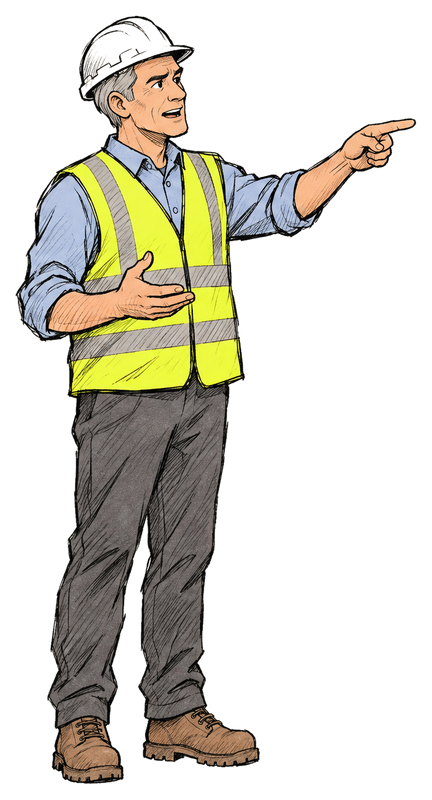
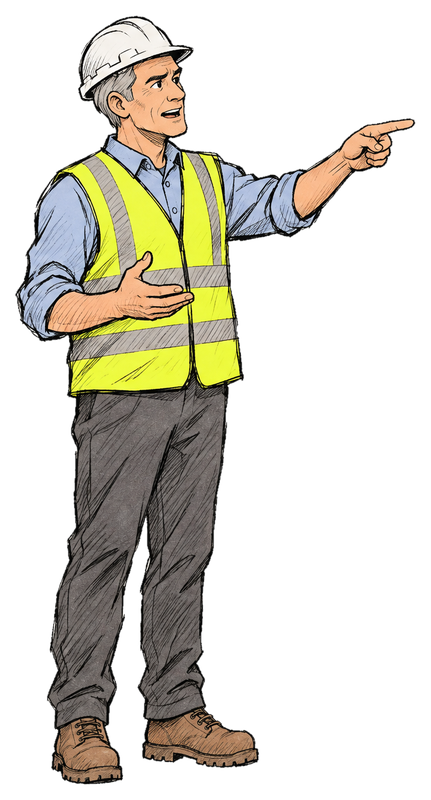
BaumBB: bessere Freistellung, Bodenschatten, entzerrte Szenen
Claude-Session: https://claude.ai/code/session_01PAW8DoUwZkXKPhHjstQ3Fo

diff --git a/projects/bischof-baumbb/src/video.js b/projects/bischof-baumbb/src/video.js
@@ -197,7 +197,7 @@ function pitDashed(g, k) { if (k <= 0) return; line(g, [[745, GY + 2], [760, GY 
 function materials(g, k) {
   if (k <= 0) return;
   const kk = ease.outBack(clamp(k), 1.8);
-  const mg = el('g', { transform: `translate(980,${GY}) scale(${kk}) translate(-980,${-GY})` }, g);
+  const mg = el('g', { transform: `translate(1040,${GY}) scale(${kk * 0.8}) translate(-960,${-GY})` }, g);
   el('rect', { x: 900, y: GY - 70, width: 120, height: 66, fill: '#D8B98A', stroke: C.ink, 'stroke-width': 2.6, filter: 'url(#ink)' }, mg);
   line(mg, [[904, GY - 66], [1016, GY - 8]], { w: 2, color: C.ink, opacity: 0.6 }); line(mg, [[1016, GY - 66], [904, GY - 8]], { w: 2, color: C.ink, opacity: 0.6 });
   [[930, GY - 92], [965, GY - 92], [1000, GY - 92], [948, GY - 122], [983, GY - 122]].forEach(([x, y], i) => { el('circle', { cx: x, cy: y, r: 17, fill: '#B9C2C7', stroke: C.ink, 'stroke-width': 2.6, filter: 'url(#ink)' }, mg); el('circle', { cx: x, cy: y, r: 8, fill: 'none', stroke: C.ink, 'stroke-width': 1.6 }, mg); });
@@ -306,7 +306,7 @@ function planMarks(g, t, { tK, tS, tC, tF }) {
     line(g, pts.slice(0, n), { w: 4, color: C.ink, opacity: 0.95 });
     for (let i = 0; i < n; i += 5) { const [px, py] = pts[i]; inkStroke(g, [[px - 7, py - 7], [px + 7, py + 7]], { w: 2.6, seed: 740 + i, taper: false }); inkStroke(g, [[px + 7, py - 7], [px - 7, py + 7]], { w: 2.6, seed: 760 + i, taper: false }); }
     note(g, t, 'Baumschutzzaun', 400, 1302, C.ink, tF + 0.5, { size: 44, rot: -2 });
-    note(g, t, 'Lösung abstimmen', 640, 1240, C.orange, tF + 0.9, { size: 44, rot: -2, arrow: [[-20, -40], [-30, -150], [-10, -280]] });
+    note(g, t, 'Lösung abstimmen', 455, 1236, C.orange, tF + 0.9, { size: 44, rot: -2, arrow: [[175, -46], [180, -200], [168, -440]] });
   }
 }
 
@@ -353,7 +353,7 @@ function closeSoil(g, t, { dig = 0, heap = 0, orange = 0, markers = 0, trace = 0
   // geplante Leitung (gestrichelt)
   if (plannedK > 0 && dig < 0.05) { line(g, [[TR.x0, NG], [TR.x0, TR.bot], [TR.x1, TR.bot], [TR.x1, NG]], { w: 3.5, color: C.ink, dash: '14 10', drawn: plannedK, opacity: 0.85 }); }
   // Aushub
-  if (heap > 0) { const hb = []; for (let a = 0; a <= 1.0001; a += 0.05) hb.push([lerp(820, 1000, a), NG - Math.sin(a * Math.PI) * 70 * heap]); el('path', { d: smooth(hb) + 'Z', fill: '#CDB994', opacity: 0.85 }, g); inkStroke(g, hb, { w: 3.5, seed: 880, taper: false }); }
+  if (heap > 0) { const hb = []; for (let a = 0; a <= 1.0001; a += 0.05) hb.push([lerp(812, 915, a), NG - Math.sin(a * Math.PI) * 58 * heap]); el('path', { d: smooth(hb) + 'Z', fill: '#CDB994', opacity: 0.85 }, g); inkStroke(g, hb, { w: 3.5, seed: 880, taper: false }); }
   // Marker + Wurzelverlauf
   if (markers > 0) ROOTS.forEach((R, i) => {
     const pts = rootPath(R, i), mx = 695, my = R.y + (mx / 1080) * 40 + Math.sin(mx * 0.01 + i * 1.7) * 14;
@@ -410,13 +410,13 @@ function stSite(t, phase) {
     s.fence = K(t, W_(3, 'Schutzbereichen') - 0.4, 2.2, ease.linear || (x => x));
     s.stamm = K(t, W_(3, 'Stamm') - 0.2, 0.8);
     s.mat = K(t, W_(3, 'Vorgaben') - 0.2, 0.5);
-    s.vehicle = { x: lerp(1300, 880, ease.outCubic(clamp((t - 25.2) / 2.2))), s: 0.5 };
+    s.vehicle = { x: lerp(1350, 830, ease.outCubic(clamp((t - 25.1) / 1.5))) + lerp(0, 600, ease.inOutCubic(clamp((t - 27.0) / 1.2))), s: 0.5 };
   }
-  if (phase === 6) { s.fence = 1; s.stamm = 1; s.mat = 1; s.vehicle = { x: 880, s: 0.5 }; s.bld = { plan: 1, built: 0.55 }; s.pit = 0; }
+  if (phase === 6) { s.fence = 1; s.stamm = 1; s.mat = 1; s.vehicle = null; s.bld = { plan: 1, built: 0.55 }; s.pit = 0; }
   if (phase === 7) {
     const kf = K(t, 73.4, 2.0, ease.inOutCubic);
     s.fence = 1 - K(t, 74.0, 0.9, ease.inOutCubic); s.stamm = 1 - K(t, 74.2, 0.8, ease.inOutCubic); s.mat = 1 - K(t, 73.8, 0.6, ease.inOutCubic);
-    s.vehicle = { x: lerp(880, 1400, K(t, 73.5, 1.2, ease.inOutCubic)), s: 0.5 }; s.pit = 0;
+    s.vehicle = null; s.pit = 0;
     s.bld = { plan: 1, built: lerp(0.55, 1, kf), finish: K(t, 74.6, 1.6) };
     s.greenBoost = K(t, W_(7, 'wertvolle') - 0.2, 1.2);
   }
@@ -484,7 +484,7 @@ export function render(svg, t) {
     fence(cg, s.fence, t);
     // Bauleiter + Baumpfleger mit Plan
     const tp = W_(3, 'Vorgaben') - 0.6;
-    if (t > tp) { const k = ease.outBack(clamp((t - tp) / 0.6), 1.3); figure(cg, 'bl_3', lerp(-200, 790, k), GY + 4, 300); figure(cg, 'bp_3', lerp(1400, 975, k), GY + 4, 300); }
+    if (t > tp) { const k = ease.outBack(clamp((t - tp) / 0.6), 1.3); figure(cg, 'bl_3', lerp(-200, 765, k), GY + 4, 300); figure(cg, 'bp_3', lerp(1400, 915, k), GY + 4, 300); }
     // Ausnahme: lastverteilender Überfahrschutz
     card(ui, t, W_(3, 'Boden') - 0.9, 34.9, 560, 470, 470, 300, 2, (G) => {
       text(G, 'Ausnahme nach Abstimmung:', 584, 515, { size: 30, weight: 600, fill: C.graphite, ls: 0.02 });
@@ -517,7 +517,7 @@ export function render(svg, t) {
     // Figur: kniend mit Handschaufel → stehend mit Tablet
     const tSw = W_(4, 'Grundlage') - 0.6;
     if (t > tD0 - 0.8 && t < tSw) { const k = ease.outBack(clamp((t - tD0 + 0.8) / 0.5), 1.3); const dg = el('g', { transform: `rotate(${Math.sin(t * 7) * 1.6} 520 ${NG})` }, cg); figure(dg, 'bp_4', lerp(-260, 470, k), NG + 6, 270, { flip: true, label: false }); }
-    if (t >= tSw && lens < 0.5) { const k = ease.outBack(clamp((t - tSw) / 0.5), 1.4); figure(cg, 'bp_1', lerp(1400, 945, k), NG + 4, 330); }
+    if (t >= tSw && lens < 0.5) { const k = ease.outBack(clamp((t - tSw) / 0.5), 1.4); figure(cg, 'bp_1', lerp(1400, 1000, k), NG + 4, 330); }
     // Dokumentation: Wurzellage auf dem Tablet
     card(ui, t, tSw + 0.3, W_(5, 'Eingriffe') - 0.3, 60, 470, 470, 290, -2, (G) => {
       text(G, 'Wurzellage', 86, 518, { size: 38, weight: 700, fill: C.ink, ls: 0.02 });
@@ -570,12 +570,12 @@ export function render(svg, t) {
     site(cg, t, s);
     fence(cg, s.fence, t, { checks: phase === 6 ? K(t, W_(6, 'Schutzmaßnahmen') - 0.4, 1.0, x => x) : 0 });
     if (phase === 6) {
-      figure(cg, 'bl_2', 785, GY + 4, 300);
+      figure(cg, 'bl_2', 765, GY + 4, 300);
       const tPh = W_(6, 'dokumentieren') - 0.2;
-      figure(cg, t < tPh ? 'bp_3' : 'bp_2', 980, GY + 4, 300);
-      if (t > tPh + 0.3 && t < tPh + 0.6) { const k = Math.sin(clamp((t - tPh - 0.3) / 0.3) * Math.PI); el('circle', { cx: 900, cy: GY - 250, r: 90 * k, fill: '#fff', opacity: 0.85 * k }, cg); }
+      figure(cg, t < tPh ? 'bp_3' : 'bp_2', 915, GY + 4, 300);
+      if (t > tPh + 0.3 && t < tPh + 0.6) { const k = Math.sin(clamp((t - tPh - 0.3) / 0.3) * Math.PI); el('circle', { cx: 850, cy: GY - 250, r: 90 * k, fill: '#fff', opacity: 0.85 * k }, cg); }
       const tb = W_(6, 'beraten') - 0.1; // Gesprächsblasen
-      [[740, GY - 360, 0], [990, GY - 380, 0.35]].forEach(([bx, by, d], i) => { const k = ease.outBack(clamp((t - tb - d) / 0.4), 2) * (1 - clamp((t - tb - 2.2) / 0.3)); if (k <= 0) return; const bg = el('g', { transform: `translate(${bx},${by}) scale(${k})` }, cg); el('ellipse', { cx: 0, cy: 0, rx: 60, ry: 38, fill: '#FBFAF6', stroke: C.ink, 'stroke-width': 3, filter: 'url(#ink)' }, bg); el('path', { d: i ? 'M10,34 L30,64 L-14,36' : 'M-10,34 L-30,64 L14,36', fill: '#FBFAF6', stroke: C.ink, 'stroke-width': 3 }, bg); [-22, 0, 22].forEach(x => el('circle', { cx: x, cy: 0, r: 5, fill: C.ink }, bg)); });
+      [[720, GY - 360, 0], [930, GY - 380, 0.35]].forEach(([bx, by, d], i) => { const k = ease.outBack(clamp((t - tb - d) / 0.4), 2) * (1 - clamp((t - tb - 2.2) / 0.3)); if (k <= 0) return; const bg = el('g', { transform: `translate(${bx},${by}) scale(${k})` }, cg); el('ellipse', { cx: 0, cy: 0, rx: 60, ry: 38, fill: '#FBFAF6', stroke: C.ink, 'stroke-width': 3, filter: 'url(#ink)' }, bg); el('path', { d: i ? 'M10,34 L30,64 L-14,36' : 'M-10,34 L-30,64 L14,36', fill: '#FBFAF6', stroke: C.ink, 'stroke-width': 3 }, bg); [-22, 0, 22].forEach(x => el('circle', { cx: x, cy: 0, r: 5, fill: C.ink }, bg)); });
       card(ui, t, tPh + 0.55, 73.0, 590, 470, 440, 300, 2, (G) => {
         text(G, 'Dokumentation', 612, 515, { size: 36, weight: 700, fill: C.ink, ls: 0.02 });
         el('rect', { x: 612, y: 540, width: 180, height: 200, fill: '#F1F3F0', stroke: C.ink, 'stroke-width': 2.5 }, G); el('circle', { cx: 700, cy: 640, r: 60, fill: 'none', stroke: C.orange, 'stroke-width': 4 }, G); el('circle', { cx: 700, cy: 640, r: 44, fill: '#E3EBD8', stroke: C.ink, 'stroke-width': 2 }, G);

diff --git a/projects/bischof-baumbb/src/lib.js b/projects/bischof-baumbb/src/lib.js
@@ -223,18 +223,19 @@ export function text(parent, str, x, y, { size = 100, family = 'BarlowCondensed'
 }
 
 // ---------- Bild-Assets (KI-Zeichnungen, freigestellt) ----------
-export const POSES = { bp_1: [322, 800], bp_2: [342, 800], bp_3: [387, 800], bp_4: [564, 564], bl_1: [259, 800], bl_2: [397, 800], bl_3: [432, 800], 1: [290, 664], 2: [410, 667], 3: [432, 669], 4: [440, 678], 5: [306, 736], 6: [358, 729], 7: [727, 940], 8: [551, 1240] };
+export const POSES = { bp_1: [322, 800], bp_2: [342, 800], bp_3: [387, 800], bp_4: [564, 564], bl_1: [259, 800], bl_2: [397, 800], bl_3: [432, 800], 1: [290, 664], 2: [410, 667], 3: [432, 669], 4: [440, 678], 5: [306, 736], 6: [356, 727], 7: [727, 940], 8: [551, 1240] };
 // Druckfläche [x, y, breite, höhe] im Freisteller (Brust links bzw. Rücken)
 export const PATCH = { bp_1: [198, 194, 44, 23], bp_2: [222, 206, 40, 21], bp_3: [207, 190, 48, 24], 1: [168, 176, 46, 24], 2: [274, 180, 46, 24], 5: [86, 205, 134, 60], 6: [176, 200, 48, 25] };
 export function image(parent, href, x, y, w, h, extra = {}) {
   return el('image', { href, x, y, width: w, height: h, preserveAspectRatio: 'none', ...extra }, parent);
 }
 // Figur: Füße (Bildunterkante minus Rand) auf (fx, fy); h = sichtbare Körperhöhe
-export function figure(parent, pose, fx, fy, h, { flip = false, anchorX = 0.5, label = true } = {}) {
+export function figure(parent, pose, fx, fy, h, { flip = false, anchorX = 0.5, label = true, shadow = true } = {}) {
   const [pw, ph] = POSES[pose];
   const s = h / (ph - 24);
   const w = pw * s, H = ph * s;
   const g = el('g', { transform: `translate(${fx},${fy}) ${flip ? 'scale(-1,1)' : ''}` }, parent);
+  if (shadow) el('ellipse', { cx: (0.5 - anchorX) * w, cy: -2, rx: w * 0.42, ry: Math.max(5, h * 0.022), fill: '#4a3c2c', opacity: 0.2, filter: 'url(#pencil)' }, g);
   image(g, `../assets/cut/${typeof pose === 'number' ? 'pose_' + pose : pose}.png`, -w * anchorX, -H + 12 * s, w, H);
   if (label && PATCH[pose]) {
     const [px, py, qw, qh] = PATCH[pose];

diff --git a/projects/bischof-baumbb/cutout2.py b/projects/bischof-baumbb/cutout2.py
@@ -1,0 +1,45 @@
+# Verbesserte Freistellung: nur außen zusammenhängender Hintergrund wird entfernt,
+# eingeschlossene helle Flächen (Plan, Papier) bleiben deckend; Kante 1px eingezogen und entsäumt.
+import sys, numpy as np
+from PIL import Image
+from scipy import ndimage as nd
+def cut(src, prefix, target_h=800, gap_min=6000):
+    im=Image.open(src).convert('RGB'); a=np.array(im).astype(float)
+    bg=np.median(np.concatenate([a[:8].reshape(-1,3),a[-8:].reshape(-1,3),a[:,:8].reshape(-1,3),a[:,-8:].reshape(-1,3)]),0)
+    dist=np.sqrt(((a-bg)**2).sum(2))
+    near=dist<20
+    lab,n=nd.label(near)
+    border=set(np.unique(np.concatenate([lab[0],lab[-1],lab[:,0],lab[:,-1]])))-{0}
+    bgm=np.isin(lab,list(border))
+    # große, sehr hintergrundnahe Lücken (z. B. zwischen Arm und Körper) ebenfalls entfernen,
+    # aber nur wenn sie praktisch keine Zeichnung enthalten (Papier/Plan bleibt)
+    sizes=nd.sum(near,lab,range(n+1))
+    for i in range(1,n+1):
+        if i in border or sizes[i]<gap_min: continue
+        m=lab==i
+        if dist[m].mean()<4.5 and dist[m].std()<3.5: bgm|=m
+    fg=nd.binary_fill_holes(~bgm) & ~bgm | (~bgm)
+    fg=nd.binary_opening(fg,iterations=1)
+    fg=nd.binary_erosion(fg,iterations=1)
+    alpha=nd.gaussian_filter(fg.astype(float),0.7)
+    # Entsäumen: Hintergrundfarbe aus halbtransparenten Kantenpixeln herausrechnen
+    al=np.clip(alpha,1e-3,1)[...,None]
+    col=np.where(al<0.999,(a-bg*(1-al))/al,a); col=np.clip(col,0,255)
+    out=np.dstack([col,alpha*255]).astype(np.uint8)
+    img=Image.fromarray(out,'RGBA')
+    labo,no=nd.label(nd.binary_dilation(fg,iterations=14))
+    objs=[]
+    for k,sl in enumerate(nd.find_objects(labo)):
+        if sl is None: continue
+        if (labo[sl]==k+1).sum()<20000: continue
+        y0,y1=max(0,sl[0].start-12),sl[0].stop+12; x0,x1=max(0,sl[1].start-12),sl[1].stop+12
+        crop=np.array(img.crop((x0,y0,x1,y1)))
+        # nur die Hauptfigur im Ausschnitt behalten
+        m=crop[...,3]>20; l2,n2=nd.label(nd.binary_dilation(m,iterations=5)); s2=nd.sum(m,l2,range(n2+1))
+        keep=np.isin(l2,[j for j in range(1,n2+1) if s2[j]>0.1*s2.max()]); crop[...,3]=np.where(keep,crop[...,3],0)
+        objs.append((y0,x0,Image.fromarray(crop)))
+    objs.sort(key=lambda o:(round(o[0]/400),o[1]))
+    for k,(y,x,o) in enumerate(objs):
+        if o.size[1]>target_h: o=o.resize((round(o.size[0]*target_h/o.size[1]),target_h),Image.LANCZOS)
+        o.save(f'{prefix}_{k+1}.png',optimize=True); print(prefix,k+1,o.size)
+if __name__=='__main__': cut(sys.argv[1],sys.argv[2])
